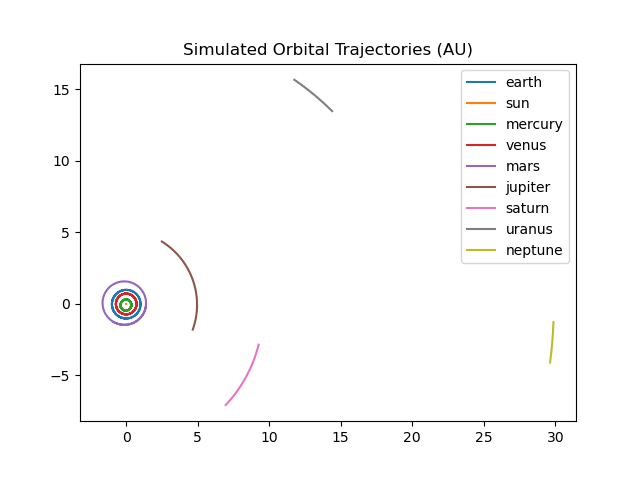
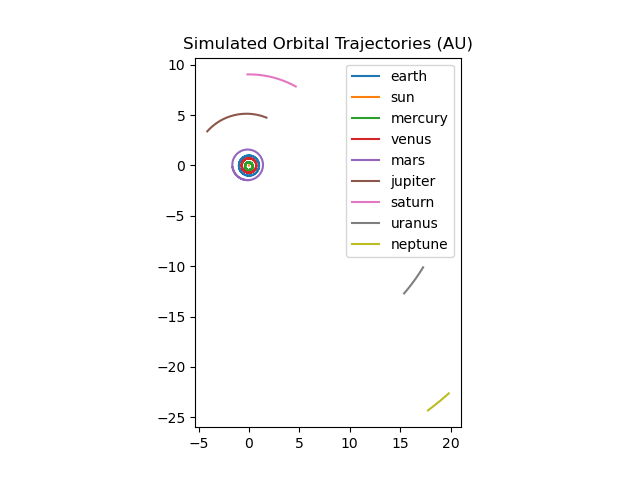
Organizational Changes to Parser

diff --git a/Parser.py b/Parser.py
@@ -4,7 +4,8 @@ from astropy import constants
 import os
 import numpy as np
 import requests
-import ssl, urllib3
+import ssl
+import urllib3
 
 
 class CustomHttpAdapter(requests.adapters.HTTPAdapter):
@@ -17,14 +18,10 @@ class CustomHttpAdapter(requests.adapters.HTTPAdapter):
             num_pools=connections, maxsize=maxsize,
             block=block, ssl_context=self.ssl_context)
 
-#creates Dict that has the planets ID's to make the API call
-planet_names = ["earth", "sun", "mercury", "jupiter", "mars", "venus", "saturn", "uranus", "neptune","moon"]
-planet_commands = [399,10,199,599,499,299,699,799,899,301]
-Planets = dict(zip(planet_names,planet_commands))
-
 
 #Takes in a list of JSON Files, returns a list of "body" objects
-def parse_objects(files):
+def parse_objects(settings):
+    files = settings["Planets"]
     print(files)
     bodies = []
     for file in files:
@@ -37,55 +34,28 @@ def parse_objects(files):
         except:
             print(f"Can't load {file}.")
 
-        if data["mass"] == "<Find>":
-            if data["name"] == "earth":
-                print("Earth's mass not provided, pulling from Astropy")
-                data["mass"] = constants.M_earth.value
-            elif data["name"] == "sun":
-                print("Sun's mass not provided, pulling from Astropy")
-                data["mass"] = constants.M_sun.value
+        if "<Find>" in data.values():
 
-        if data["iposition"] == "<Find>":
-            print(f"{data['name']}'s initial position not provided, pulling from JPL.")
-            #determine planet ID
-            planetID = Planets[data["name"]]
-            #make API call to find iposition
-            url = "https://ssd.jpl.nasa.gov/api/horizons.api?"
-            #define parameters
-            start_time = '2022-01-01'
-            stop_time = '2022-01-02'
-            #built url
-            url += "format=json&EPHEM_TYPE=VECTORS&OBJ_DATA=YES&CENTER='500@10'"
-            url += "&COMMAND='{}'&START_TIME='{}'&STOP_TIME='{}'".format(planetID,start_time,stop_time)
+            api_call = call_api(data, settings)
 
-            session = requests.session()
-            ctx = ssl.create_default_context(ssl.Purpose.SERVER_AUTH)
-            ctx.options |= 0x4
-            session.mount('https://', CustomHttpAdapter(ctx))
-            response = session.get(url).json()
-            result = response['result']
-            data["iposition"] = np.array(initial_position(result),float)
+            if data["iposition"] == "<Find>":
+                print(f"{data['name']}'s initial position not provided, pulling from JPL.")
+                data["iposition"] = np.array(get_initial_condition("position", api_call), float)
 
-        if data["ivelocity"] == "<Find>":
-            print(f"{data['name']}'s initial velocity not provided, pulling from JPL.")
-            #determine planet ID
-            planetID = Planets[data["name"]]
-            #make API call to find iposition
-            url = "https://ssd.jpl.nasa.gov/api/horizons.api?"
-            #define parameters
-            start_time = '2022-01-01'
-            stop_time = '2022-01-02'
-            #built url
-            url += "format=json&EPHEM_TYPE=VECTORS&OBJ_DATA=YES&CENTER='500@10'"
-            url += "&COMMAND='{}'&START_TIME='{}'&STOP_TIME='{}'".format(planetID,start_time,stop_time)
+            if data["ivelocity"] == "<Find>":
+                print(f"{data['name']}'s initial velocity not provided, pulling from JPL.")
+                data["ivelocity"] = np.array(get_initial_condition("velocity", api_call), float)
 
-            session = requests.session()
-            ctx = ssl.create_default_context(ssl.Purpose.SERVER_AUTH)
-            ctx.options |= 0x4
-            session.mount('https://', CustomHttpAdapter(ctx))
-            response = session.get(url).json()
-            result = response['result']
-            data["ivelocity"] = initial_velocity(result)
+            if data["mass"] == "<Find>":
+                if data["name"] == "sun":
+                    print("Sun's mass not provided, pulling from Astropy")
+                    data["mass"] = constants.M_sun.value
+                elif data["name"] == "earth":
+                    print("Earth's mass not provided, pulling from Astropy")
+                    data["mass"] = constants.M_earth.value
+                else:
+                    print(f"{data['name']}'s mass not provded, pulling from JPL")
+                    data["mass"] = get_mass(api_call)
 
         ###################################################################################
         body = Body(data["name"], data["mass"], data["iposition"], data["ivelocity"])
@@ -107,51 +77,70 @@ def parse_config(file):
 
     return data
 
+#type = "velocity" or "position"
+def get_initial_condition(type, string):
+    if type == "velocity":
+        code_1, code_2 = "V", ""
+    else:
+        code_1, code_2 = "", " "
 
-#functions to parse the API output result string
-def initial_position(string):
-    #find index of first 'X = '
-    idx = string.find('X =')
-    new_string = string[idx:-1]
-    #find first new line
-    idx = new_string.find('\n')
-    new_string = new_string[0:idx]
-
-    #find starting index's for position values
-    x_index = new_string.find('X =')
-    y_index = new_string.find('Y =')
-    z_index = new_string.find('Z =')
-    
-
-    xString = new_string[x_index:y_index].split('=')#might need to have conversion factor for units
-    yString = new_string[y_index:z_index].split('=')
-    zString = (new_string[z_index:-1] + new_string[-1]).split('=')
-
-    xVal = float(xString[1]) * 10e2
-    yVal = float(yString[1]) * 10e2
-    zVal = float(zString[1]) * 10e2
-
-    return [xVal,yVal,zVal]
-
-def initial_velocity(string):
     #find index of first 'VX = '
-    idx = string.find('VX=')
+    idx = string.find(f'{code_1}X{code_2}=')
     new_string = string[idx:-1]
     #find first new line
     idx = new_string.find('\n')
     new_string = new_string[0:idx]
 
-    #find starting index's for velocity values
-    x_index = new_string.find('VX=')
-    y_index = new_string.find('VY=')
-    z_index = new_string.find('VZ=')
+    x_index = new_string.find(f'{code_1}X{code_2}=')
+    y_index = new_string.find(f'{code_1}Y{code_2}=')
+    z_index = new_string.find(f'{code_1}Z{code_2}=')
 
     xString = new_string[x_index:y_index].split('=')#might need to have conversion factor for units
     yString = new_string[y_index:z_index].split('=')
     zString = (new_string[z_index:-1] + new_string[-1]).split('=')
 
-    xVal = float(xString[1]) * 10e2
-    yVal = float(yString[1]) * 10e2
-    zVal = float(zString[1]) * 10e2
+    return (10**3) * np.array([float(xString[1]), float(yString[1]), float(zString[1])])
 
-    return [xVal,yVal,zVal]
+def call_api(data, settings):
+    date = settings["Ephemeris Date"]
+    planetID = data["Horizon ID"]
+
+    # make API call to find iposition
+    url = "https://ssd.jpl.nasa.gov/api/horizons.api?"
+    # define parameters
+    start_time, stop_time = date, '-'.join(date.split("-")[:2]) + "-" + ("0" + str(int(date.split("-")[2]) + 1))[1:]
+    # build url
+    url += "format=json&EPHEM_TYPE=VECTORS&OBJ_DATA=YES&CENTER='500@10'"
+    url += "&COMMAND='{}'&START_TIME='{}'&STOP_TIME='{}'".format(planetID, start_time, stop_time)
+
+    session = requests.session()
+    ctx = ssl.create_default_context(ssl.Purpose.SERVER_AUTH)
+    ctx.options |= 0x4
+    session.mount('https://', CustomHttpAdapter(ctx))
+    response = session.get(url).json()
+    result = response['result']
+
+    return result
+
+def get_mass(data):
+    data = data.splitlines()
+    for line in data:
+        if "Mass x" in line:
+            mass_line = line
+
+    if mass_line.index("Mass x") > 0.5 * len(mass_line):
+        mass_line = mass_line[int(0.5*len(mass_line)):].strip()
+    else:
+        mass_line = mass_line[:int(0.5*len(mass_line))].strip()
+
+    if "(kg)" in mass_line:
+        power = int(mass_line.split("x")[1].strip().split("(kg)")[0].split("^")[1])
+    elif "(g)" in mass_line:
+        power = int(mass_line.split("x")[1].strip().split("(g)")[0].split("^")[1]) - 3
+
+    base = float(mass_line.split("=")[1].strip("+-"))
+
+    return base * 10**power
+
+
+

diff --git a/Simulator.py b/Simulator.py
@@ -20,7 +20,7 @@ def RunSim(objects, settings):
         update_velocity(objects, dt)
 
     print("Simulation ended. See Figures for trajectory plot and printing orbital data below.")
-    OrbitAnalyzer.get_orbit_params(objects[0].position_history)
+    OrbitAnalyzer.get_orbit_params(objects[7].position_history)
     #Plot the orbits
     plot_orbits(objects)
 

diff --git a/Main.py b/Main.py
@@ -3,7 +3,7 @@ import Simulator as NbodySimulator
 
 options = Parser.parse_config("SimFiles/config.JSON")
 
-planets = Parser.parse_objects(options["Planets"])
+planets = Parser.parse_objects(options)
 
 print(f"Starting N-body simulator with dt={options['dt']} seconds for {options['Runtime']} seconds...")
 NbodySimulator.RunSim(planets, options)

diff --git a/OrbitAnalyzer.py b/OrbitAnalyzer.py
@@ -18,6 +18,7 @@ def get_orbit_params(orbit):
     eccentricity = np.sqrt(1 - (semi_minor_axis/semi_major_axis)**2)
 
     print(f"The semi-major axis is {semi_major_axis} AU")
+    print(f"The semi-minor axis is {semi_minor_axis} AU")
     print(f"The eccentricity is {eccentricity}")
     print(f"The orbit is rotated by {theta} degrees")
 
